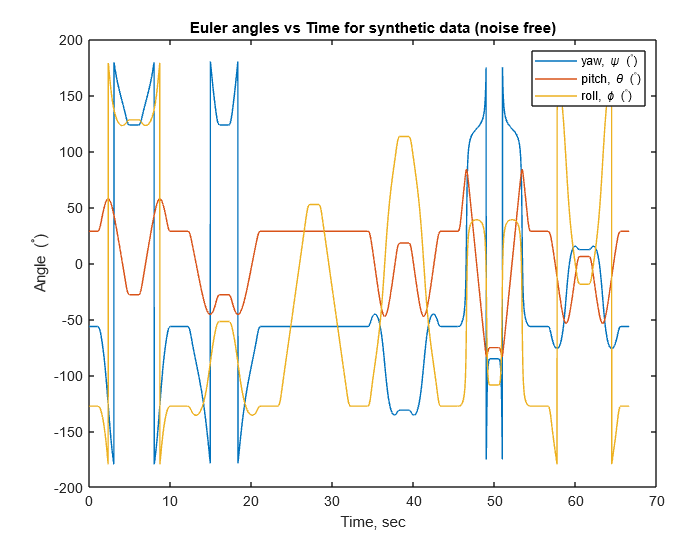
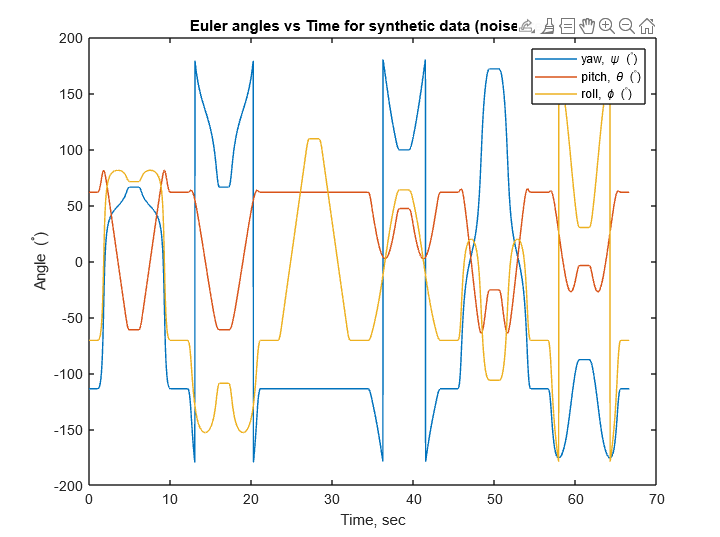
Part 5 matlab code.

Changed region(s): [[0.03, 0.0298, 0.96, 0.9534], [0.48, 0.9534, 0.57, 0.9832], [0.42, 0.2384, 0.45, 0.3277]]

diff --git a/Matlab/Part5ClosedLoop.m b/Matlab/Part5ClosedLoop.m
@@ -13,37 +13,49 @@ noiseFlag = true; % we want noise
 [Acc, Mag, wGyro, Eul_true] = CreateTrajectoryData(dT, noiseFlag);
 
 % Define geographical coordinates of Santa Cruz, CA
-latitude = 36.9741;   % in degrees
-longitude = -122.0308; % in degrees
-altitude = 259.08;          % in meters (assuming sea level)
+% latitude = 36.9741;   % in degrees
+% longitude = -122.0308; % in degrees
+% altitude = 259.08;          % in meters (assuming sea level)
 gravity = 9.81;       % in meters per second squared
-nT = 23194.3/1000;           % nanoTeslas
+nT = 23194.3/1000;           % nanoTeslas from microTeslas
 
 % Inertial gravity vector points opposite to the NED position vector
 accelInertial = [gravity; 0; 0];
 
 % Define a unit vector pointing in the direction of magnetic north
-magInertial = [nT; 0; 0];
+magInertial = [0; 0; nT];
 
 % Step 2: Extract true Euler angles and bias
 yaw_true = deg2rad(Eul_true(:, 1));
 pitch_true = deg2rad(Eul_true(:, 2));
 roll_true = deg2rad(Eul_true(:, 3));
 
+yaw_100 = wGyro(1:50,1);
+pitch_100 = wGyro(1:50,2);
+roll_100 = wGyro(1:50,3);
+
+yaw_bias = mean(yaw_100);
+pitch_bias = mean(pitch_100);
+roll_bias = mean(roll_100);
 
 
 % Step 3: Initialize DCM from true Euler angles
-R_0 = [(cos(pitch_true(1))*cos(yaw_true(1))), cos(pitch_true(1))*sin(yaw_true(1)), -sin(pitch_true(1));
-        (sin(roll_true(1))*sin(pitch_true(1))*cos(yaw_true(1)))-(cos(roll_true(1))*sin(yaw_true(1))), (sin(roll_true(1))*sin(pitch_true(1))*sin(yaw_true(1))) + (cos(roll_true(1))*cos(yaw_true(1))), sin(roll_true(1))*cos(pitch_true(1));
-        (cos(roll_true(1))*sin(pitch_true(1))*cos(yaw_true(1)))+ (sin(roll_true(1))*sin(yaw_true(1))), (cos(roll_true(1))*sin(pitch_true(1))*sin(yaw_true(1))) - (sin(roll_true(1))*cos(yaw_true(1))), cos(roll_true(1))*cos(pitch_true(1))];
+% R_0 = [(cos(pitch_true(1))*cos(yaw_true(1))), cos(pitch_true(1))*sin(yaw_true(1)), -sin(pitch_true(1));
+%         (sin(roll_true(1))*sin(pitch_true(1))*cos(yaw_true(1)))-(cos(roll_true(1))*sin(yaw_true(1))), (sin(roll_true(1))*sin(pitch_true(1))*sin(yaw_true(1))) + (cos(roll_true(1))*cos(yaw_true(1))), sin(roll_true(1))*cos(pitch_true(1));
+%         (cos(roll_true(1))*sin(pitch_true(1))*cos(yaw_true(1)))+ (sin(roll_true(1))*sin(yaw_true(1))), (cos(roll_true(1))*sin(pitch_true(1))*sin(yaw_true(1))) - (sin(roll_true(1))*cos(yaw_true(1))), cos(roll_true(1))*cos(pitch_true(1))];
+
+R_0 = [1, 0, 0;
+        0, 1, 0;
+        0, 0, 1];
 
 % Step 4: Integrate gyroscope output using forward integration and matrix exponential form
 pitches =[];
 yaws = [];
 rolls = [];
-
+Bminus = [yaw_bias ; pitch_bias; roll_bias];
+% Bminus = [0; 0; 0];
 for i = 1:length(pitch_true)
-    Bminus = [0; 0; 0];
+    
     if i==1
         [Rk_1, g_bias] = IntegrateClosedLoop(R_0, Bminus, deg2rad(wGyro(i, :)./131), Mag(i,:), Acc(i,:), magInertial, accelInertial, dT);
     else
@@ -58,44 +70,35 @@ for i = 1:length(pitch_true)
     rolls = [rolls; rad2deg(roll)];
 end
 
-subplot(3, 2, 1);
-plot(rad2deg(yaw_true));
-title('Yaw Error (Exponential Integration)');
-subplot(3, 2, 2);
+PrettyPlotAttitudeData(dT,Acc,Mag,wGyro,Eul_true)
 
+subplot(3, 1, 1);
+plot(rad2deg(yaw_true), 'b');
+title('Yaw Error (Exponential Integration)');
+hold on;
+subplot(3, 1, 1);
+plot(yaws, 'r');
+title('Yaw Error (Exponential Integration)');
+
+subplot(3,1, 2);
 ylabel('Degrees of Difference');
-plot(rad2deg(pitch_true));
+plot(rad2deg(pitch_true), 'b');
+title('Pitch Error (Exponential Integration)');
+hold on;
+subplot(3, 1, 2);
+ylabel('Degrees of Difference');
+plot(pitches, 'r');
 title('Pitch Error (Exponential Integration)');
 
-subplot(3, 2, 3);
-plot(rad2deg(roll_true));
+
+subplot(3, 1, 3);
+plot(rad2deg(roll_true), 'b');
 xlabel('time (dt)');
 title('Roll Error (Exponential Integration)');
-
-subplot(3, 2, 4);
-plot(yaws);
-title('Yaw');
-subplot(3, 2, 5);
-
-ylabel('Degrees of Difference');
-plot(pitches);
-title('Pitch');
-
-subplot(3, 2, 6);
-plot(rolls);
+hold on;
+subplot(3, 1, 3);
+plot(rolls, 'r');
 xlabel('time (dt)');
-title('Roll');
-
-% subplot(4, 2, 1);
-% plot(Acc);
-% xlabel('time (dt)');
-% title('ACC');
-% 
-% 
-% 
-% subplot(4, 2, 2);
-% plot(Mag);
-% xlabel('time (dt)');
-% title('Mag');
+title('Roll Error (Exponential Integration)');
 
 
